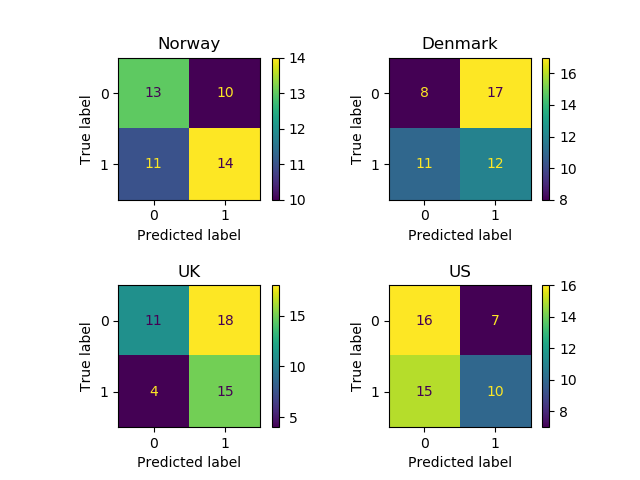
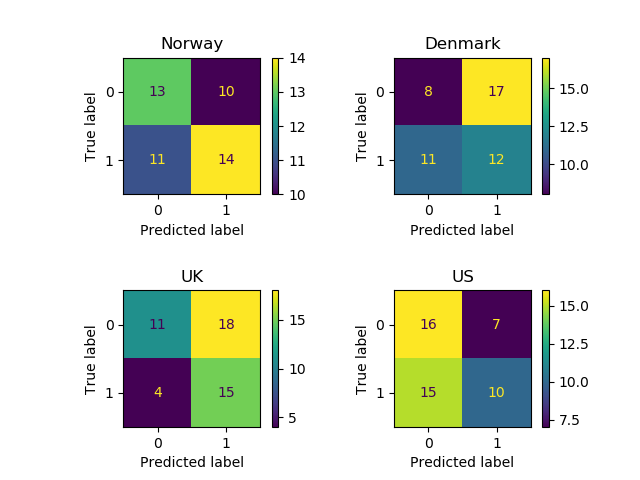
Last updates

diff --git a/Final assignment/import_data.py b/Final assignment/import_data.py
@@ -224,6 +224,21 @@ def plot_multiple_forecast(res, res_wd, train_set, test_set, exog_test, title, a
     ax.set_ylabel('PMI')
     ax.set_title(title, fontsize=14)
 
+def accuracy_column(df, n_test_obs):
+    accuracy_list = []
+    for i in range(6):
+        train = df.iloc[:-n_test_obs,:]
+        test = df.iloc[-n_test_obs:,:]
+        exog_train = train[['el_lag_1', 'el_lag_2', 'brent_lag_1', 'brent_lag_2', 'wti_lag_1', 'wti_lag_2']]
+        exog_test = test[['el_lag_1', 'el_lag_2', 'brent_lag_1', 'brent_lag_2', 'wti_lag_1', 'wti_lag_2']]
+
+        rf = RandomForestClassifier(n_estimators=128, bootstrap=True, max_features=i+1, random_state=86)
+        rf.fit(X=exog_train, y=train.dir)
+        preds = rf.predict(exog_test)
+
+        accuracy = accuracy_score(y_true=test.dir, y_pred=preds)
+        accuracy_list.append(accuracy)
+    return accuracy_list
 
 ### PMI
 ## Norway
@@ -903,7 +918,7 @@ ax.plot(x_axis, acc_us, '-.o', label='US')
 plt.axvline(x=math.sqrt(6), linestyle='--', color='gray', linewidth=1)
 ax.set_ylabel('Out-of-sample accuracy')
 ax.set_xlabel('Predictor subset')
-ax.set_title('Out-of-sample accuracy with differing m', fontdict={'size':18})
+ax.set_title('Out-of-sample accuracy with differing m', fontdict={'size':16})
 plt.legend(loc='best')
 plt.savefig('plots/oos_accuracy.png')
 plt.show()
@@ -943,7 +958,7 @@ conf_mat_us = confusion_matrix(y_true=df_us_test.dir, y_pred=preds_us, labels=[0
 
 # Plotting confusion matrices
 fix, ax = plt.subplots(2,2)
-plt.subplots_adjust(hspace=0.6)
+plt.subplots_adjust(hspace=0.7)
 plot_confusion_matrix(rf_no, X=exog_no_test, y_true=df_no_test.dir, ax=ax[0,0])
 plot_confusion_matrix(rf_dk, X=exog_dk_test, y_true=df_dk_test.dir, ax=ax[0,1])
 plot_confusion_matrix(rf_uk, X=exog_uk_test, y_true=df_uk_test.dir, ax=ax[1,0])
